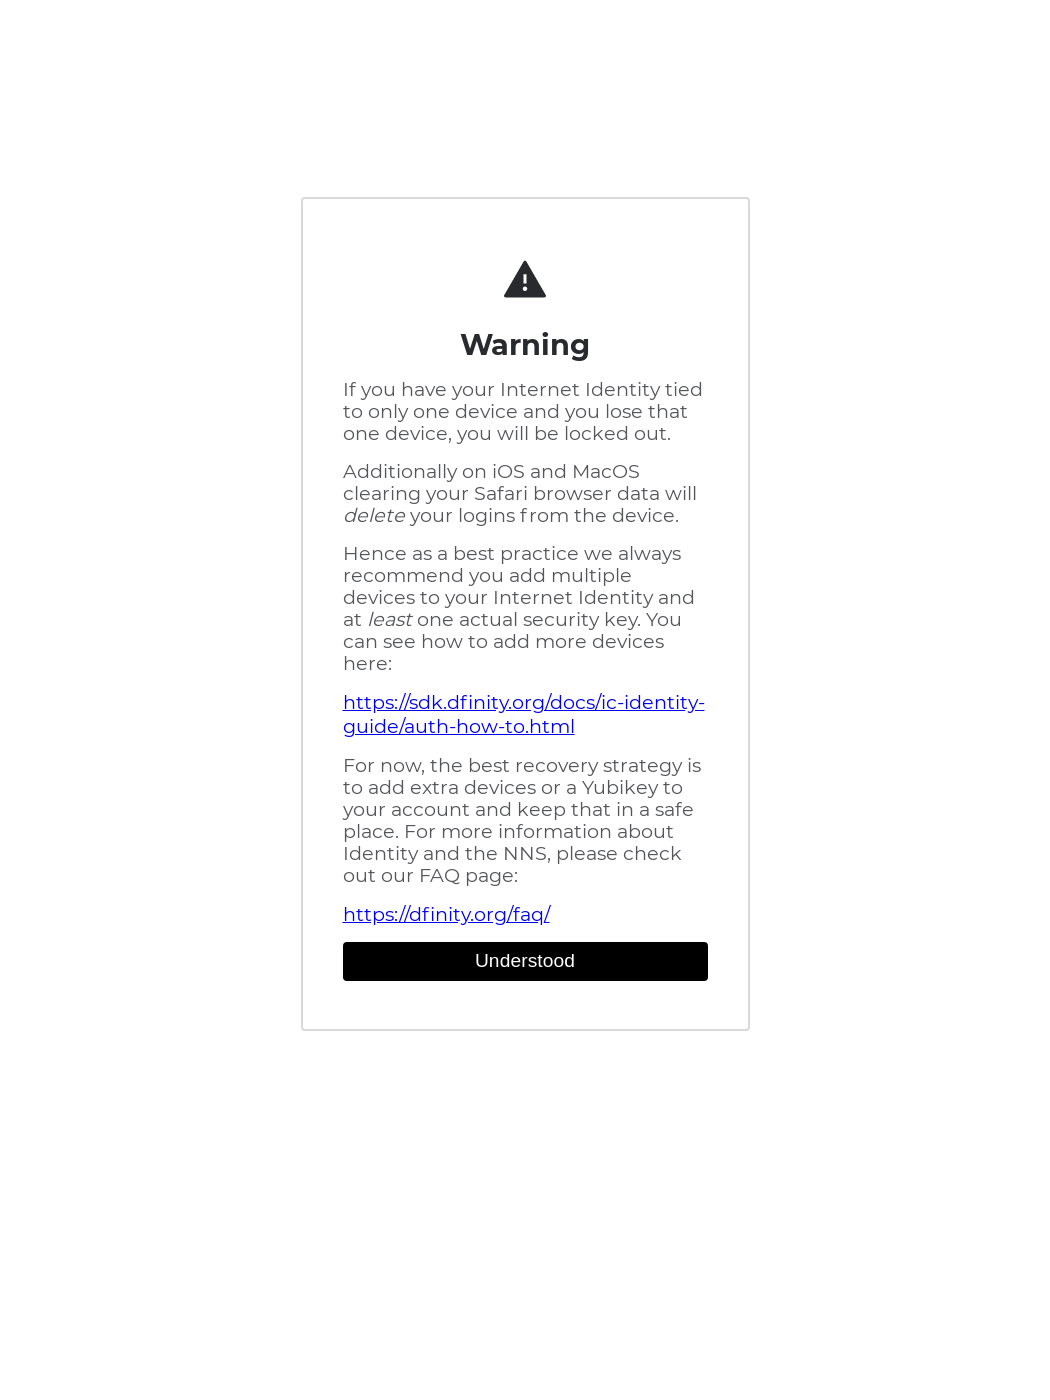
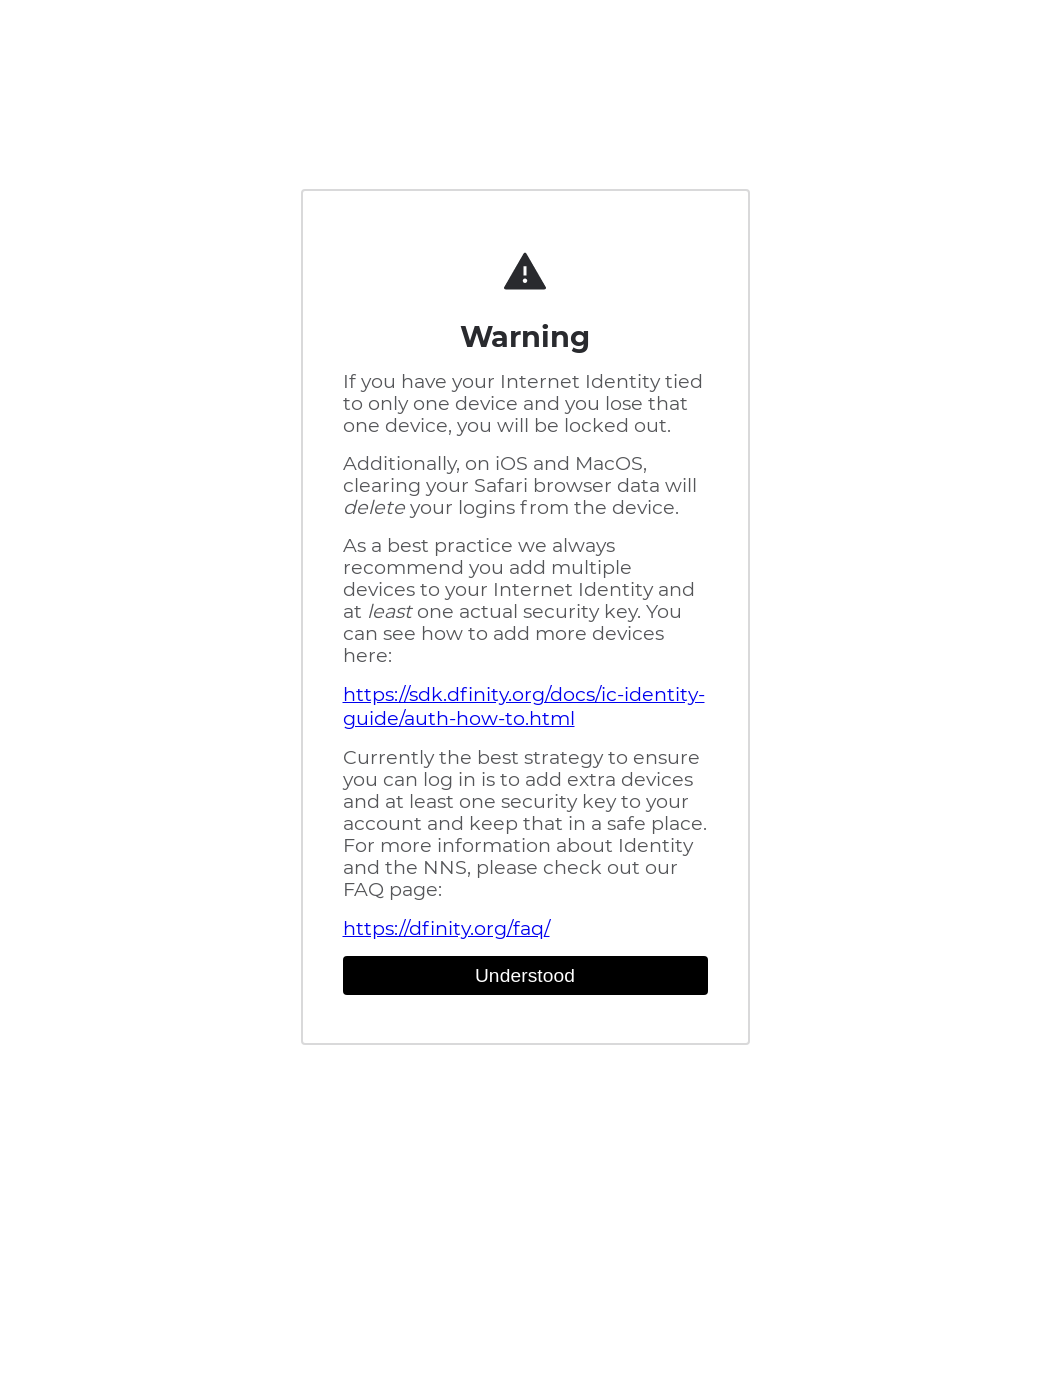
Update warning text (#278)
* Update warning text

* Updating selenium screenshots

Changed region(s): [[0.3048, 0.1843, 0.6705, 0.7371]]

diff --git a/src/frontend/src/flows/displaySingleDeviceWarning.ts b/src/frontend/src/flows/displaySingleDeviceWarning.ts
@@ -30,13 +30,13 @@ const pageContent = () => html`
       that one device, you will be locked out.
     </p>
     <p>
-      Additionally on iOS and MacOS clearing your Safari browser data will
+      Additionally, on iOS and MacOS, clearing your Safari browser data will
       <em>delete</em> your logins from the device.
     </p>
     <p>
-      Hence as a best practice we always recommend you add multiple devices to
-      your Internet Identity and at <em>least</em> one actual security key. You
-      can see how to add more devices here:
+      As a best practice we always recommend you add multiple devices to your
+      Internet Identity and at <em>least</em> one actual security key. You can
+      see how to add more devices here:
     </p>
     <a
       target="_blank"
@@ -44,9 +44,10 @@ const pageContent = () => html`
       >https://sdk.dfinity.org/docs/ic-identity-guide/auth-how-to.html</a
     >
     <p>
-      For now, the best recovery strategy is to add extra devices or a Yubikey
-      to your account and keep that in a safe place. For more information about
-      Identity and the NNS, please check out our FAQ page:
+      Currently the best strategy to ensure you can log in is to add extra
+      devices and at least one security key to your account and keep that in a
+      safe place. For more information about Identity and the NNS, please check
+      out our FAQ page:
     </p>
     <a target="_blank" href="https://dfinity.org/faq/"
       >https://dfinity.org/faq/</a
